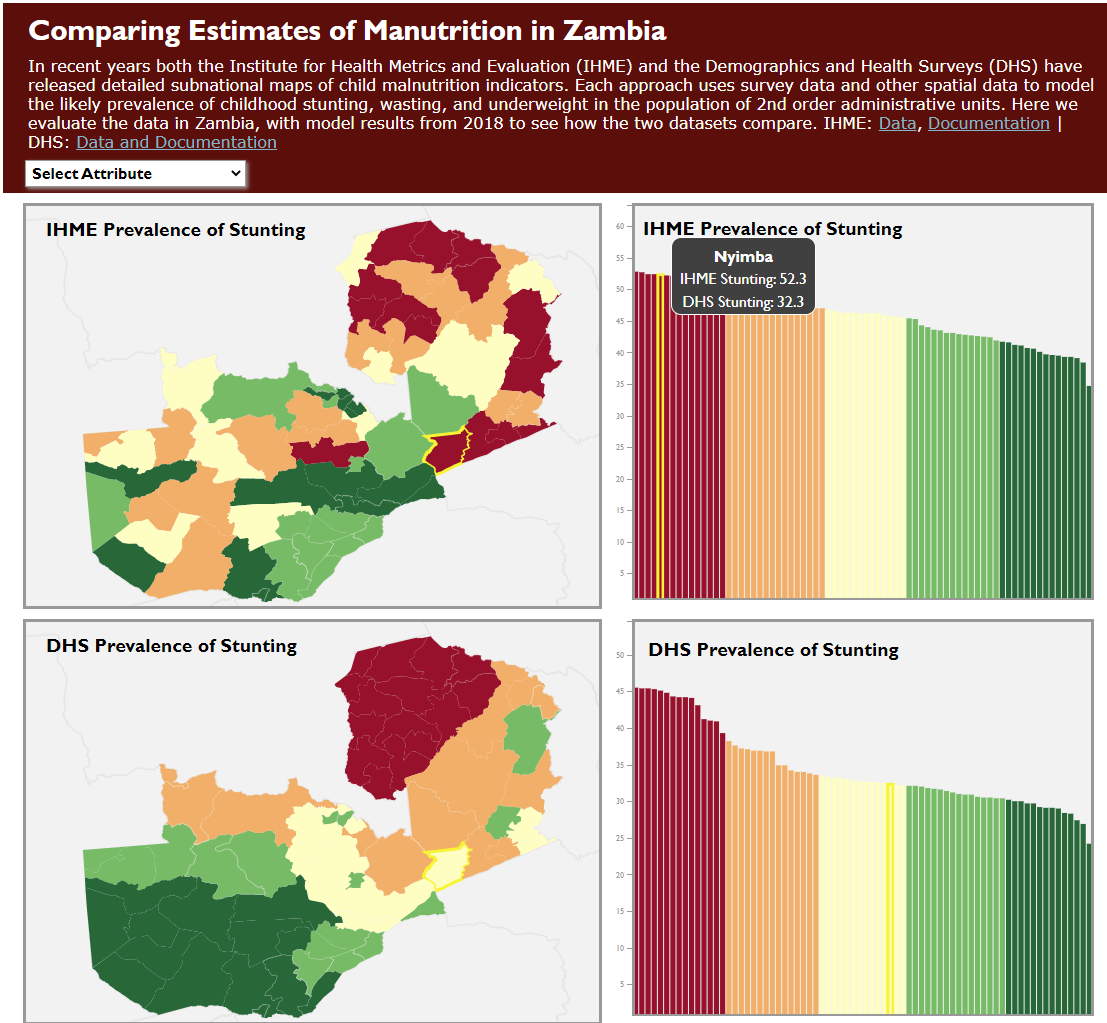
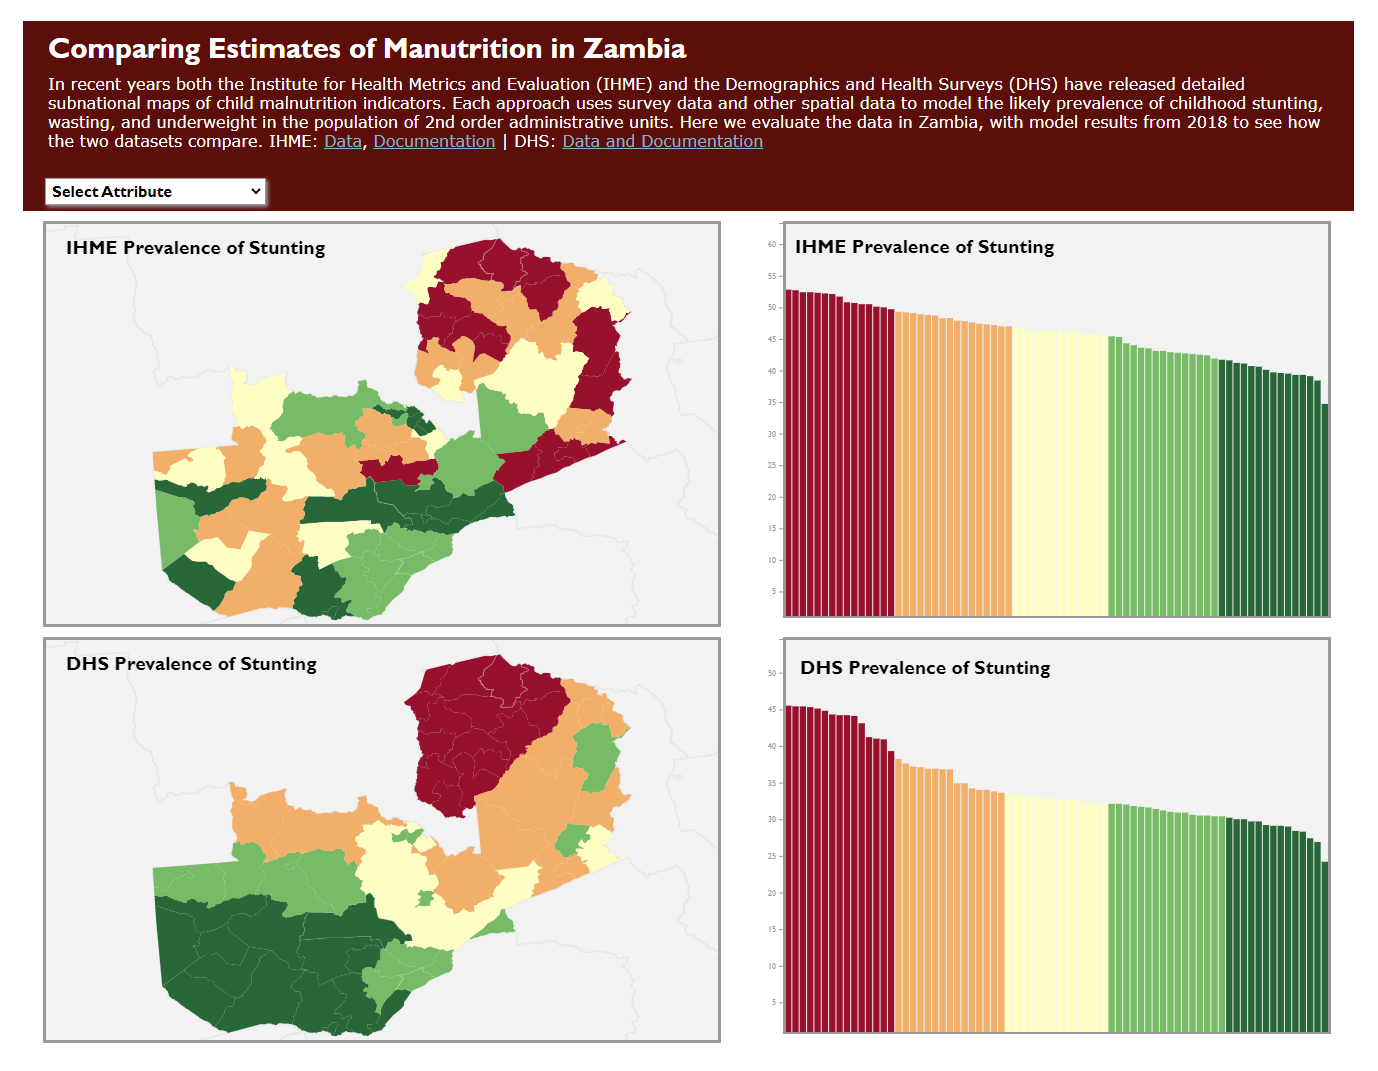
switched out graphics

diff --git a/d3-childhood-malnutrition.html b/d3-childhood-malnutrition.html
@@ -48,7 +48,7 @@
 						<div class="inner">
 							<h1>Scripting|Design: Evaluating the results of similar modeling efforts</h1>
 							<p>The following project was built with d3, a javascript library for creating data visualizations.</p>
-                           <div class="col-12"><span class="image fit">  <iframe width='100%' height='1000px' src="https://aldenkyle.github.io/zambia-malnutrition-d3/" title="Leaflet-Polution" style="border:none;"></iframe></span></div>
+                           <div class="col-12"><span class="image fit">  <iframe width='100%' height='1100px' src="https://aldenkyle.github.io/zambia-malnutrition-d3/" title="Leaflet-Polution" style="border:none;"></iframe></span></div>
                             
 						</div>
 					</div>
